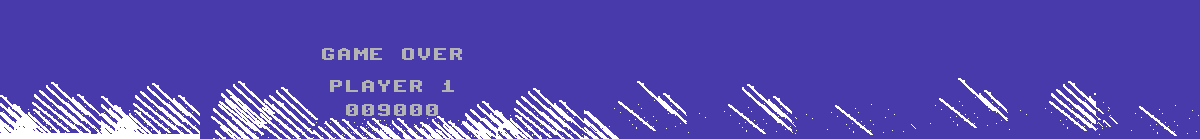
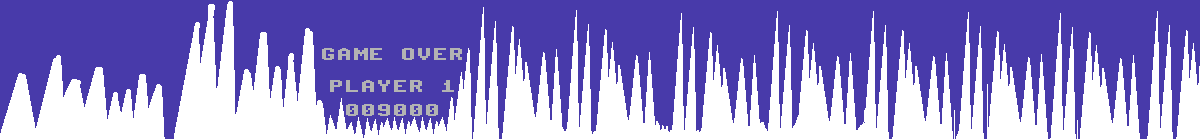
BL7.2 - outro improvement

diff --git a/examples/bruce-lee/stageOutro.go b/examples/bruce-lee/stageOutro.go
@@ -27,7 +27,7 @@ func stageOutro(screen *ebiten.Image){
     screen.Fill(color.RGBA{R: 72, G: 58, B: 170, A: 255})
     outro(screen, stage4Counter)
 	drawBackground(screen, gameOverPic, 0, 0, 1583, 138)
-    stage4Counter +=1
+    stage4Counter +=2
 }
 
 func outro(screen *ebiten.Image, counter float64){

diff --git a/examples/bruce-lee/main.go b/examples/bruce-lee/main.go
@@ -207,6 +207,8 @@ func analyzeArguments(){
             counter = stage3Timeout
         case "4.5":
             counter = 30000 + stage3Timeout
+        case "outro":
+            counter = stage4Timeout
     }
 }
 
